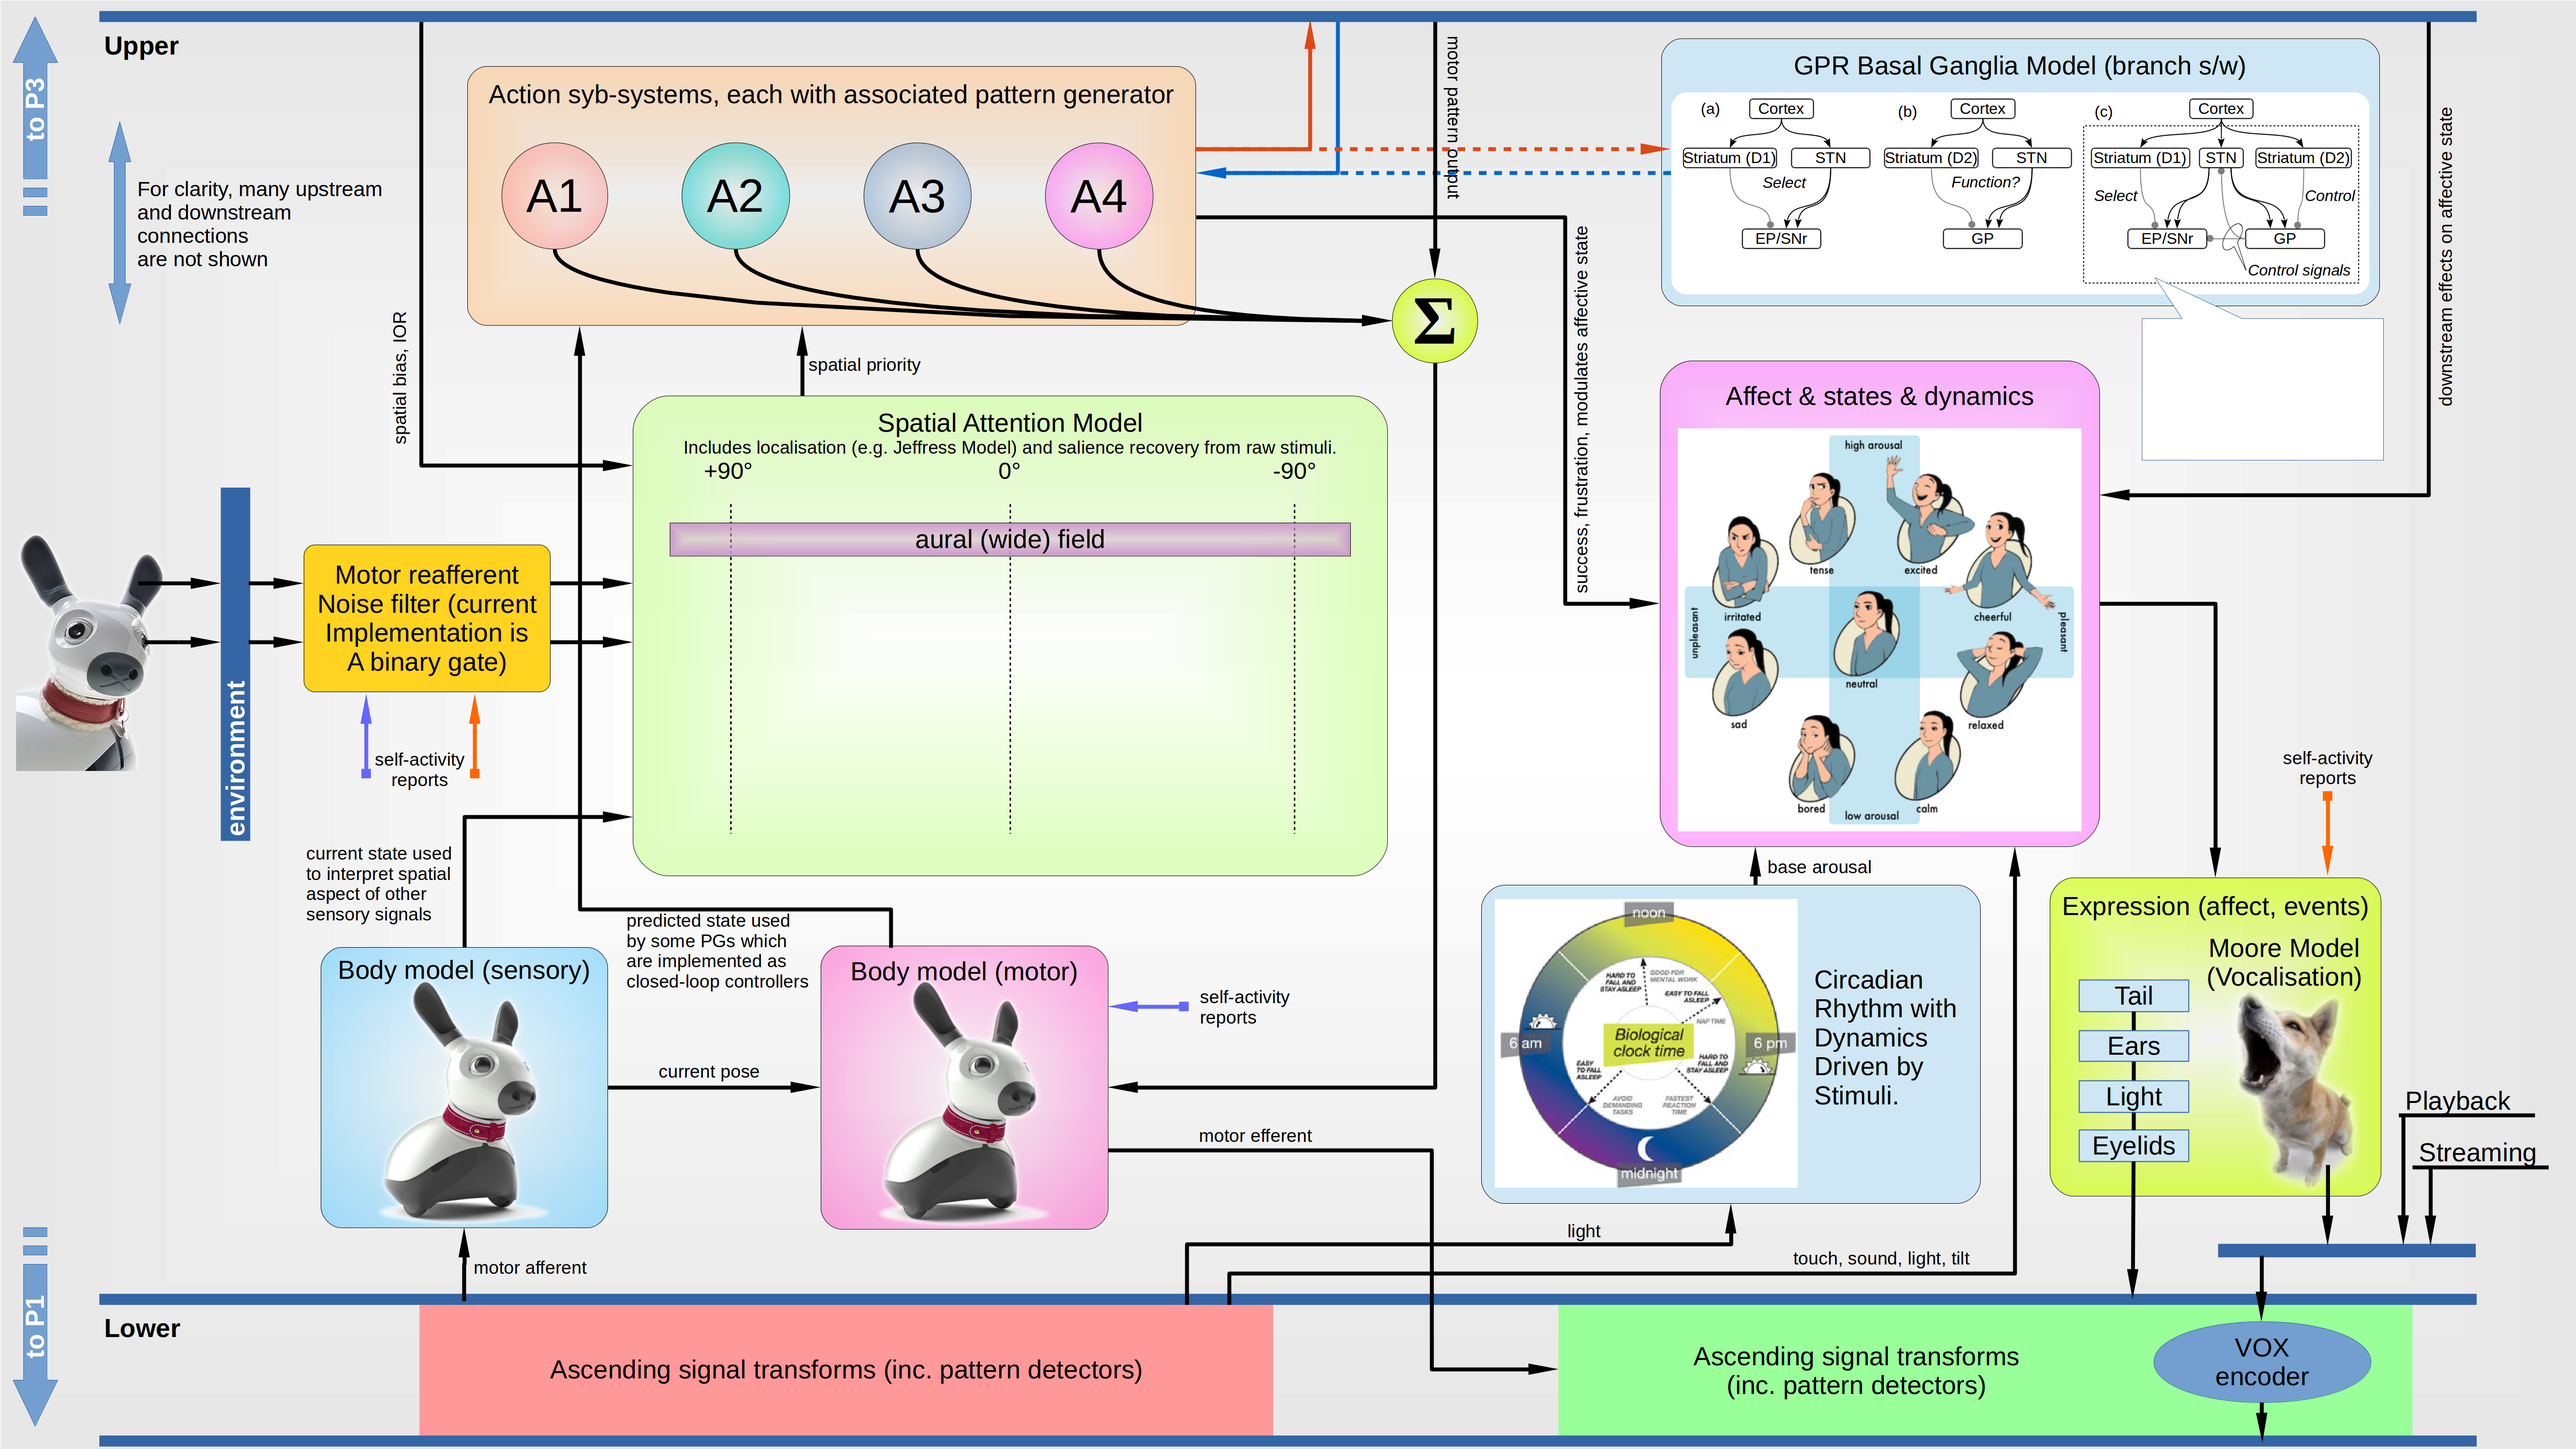
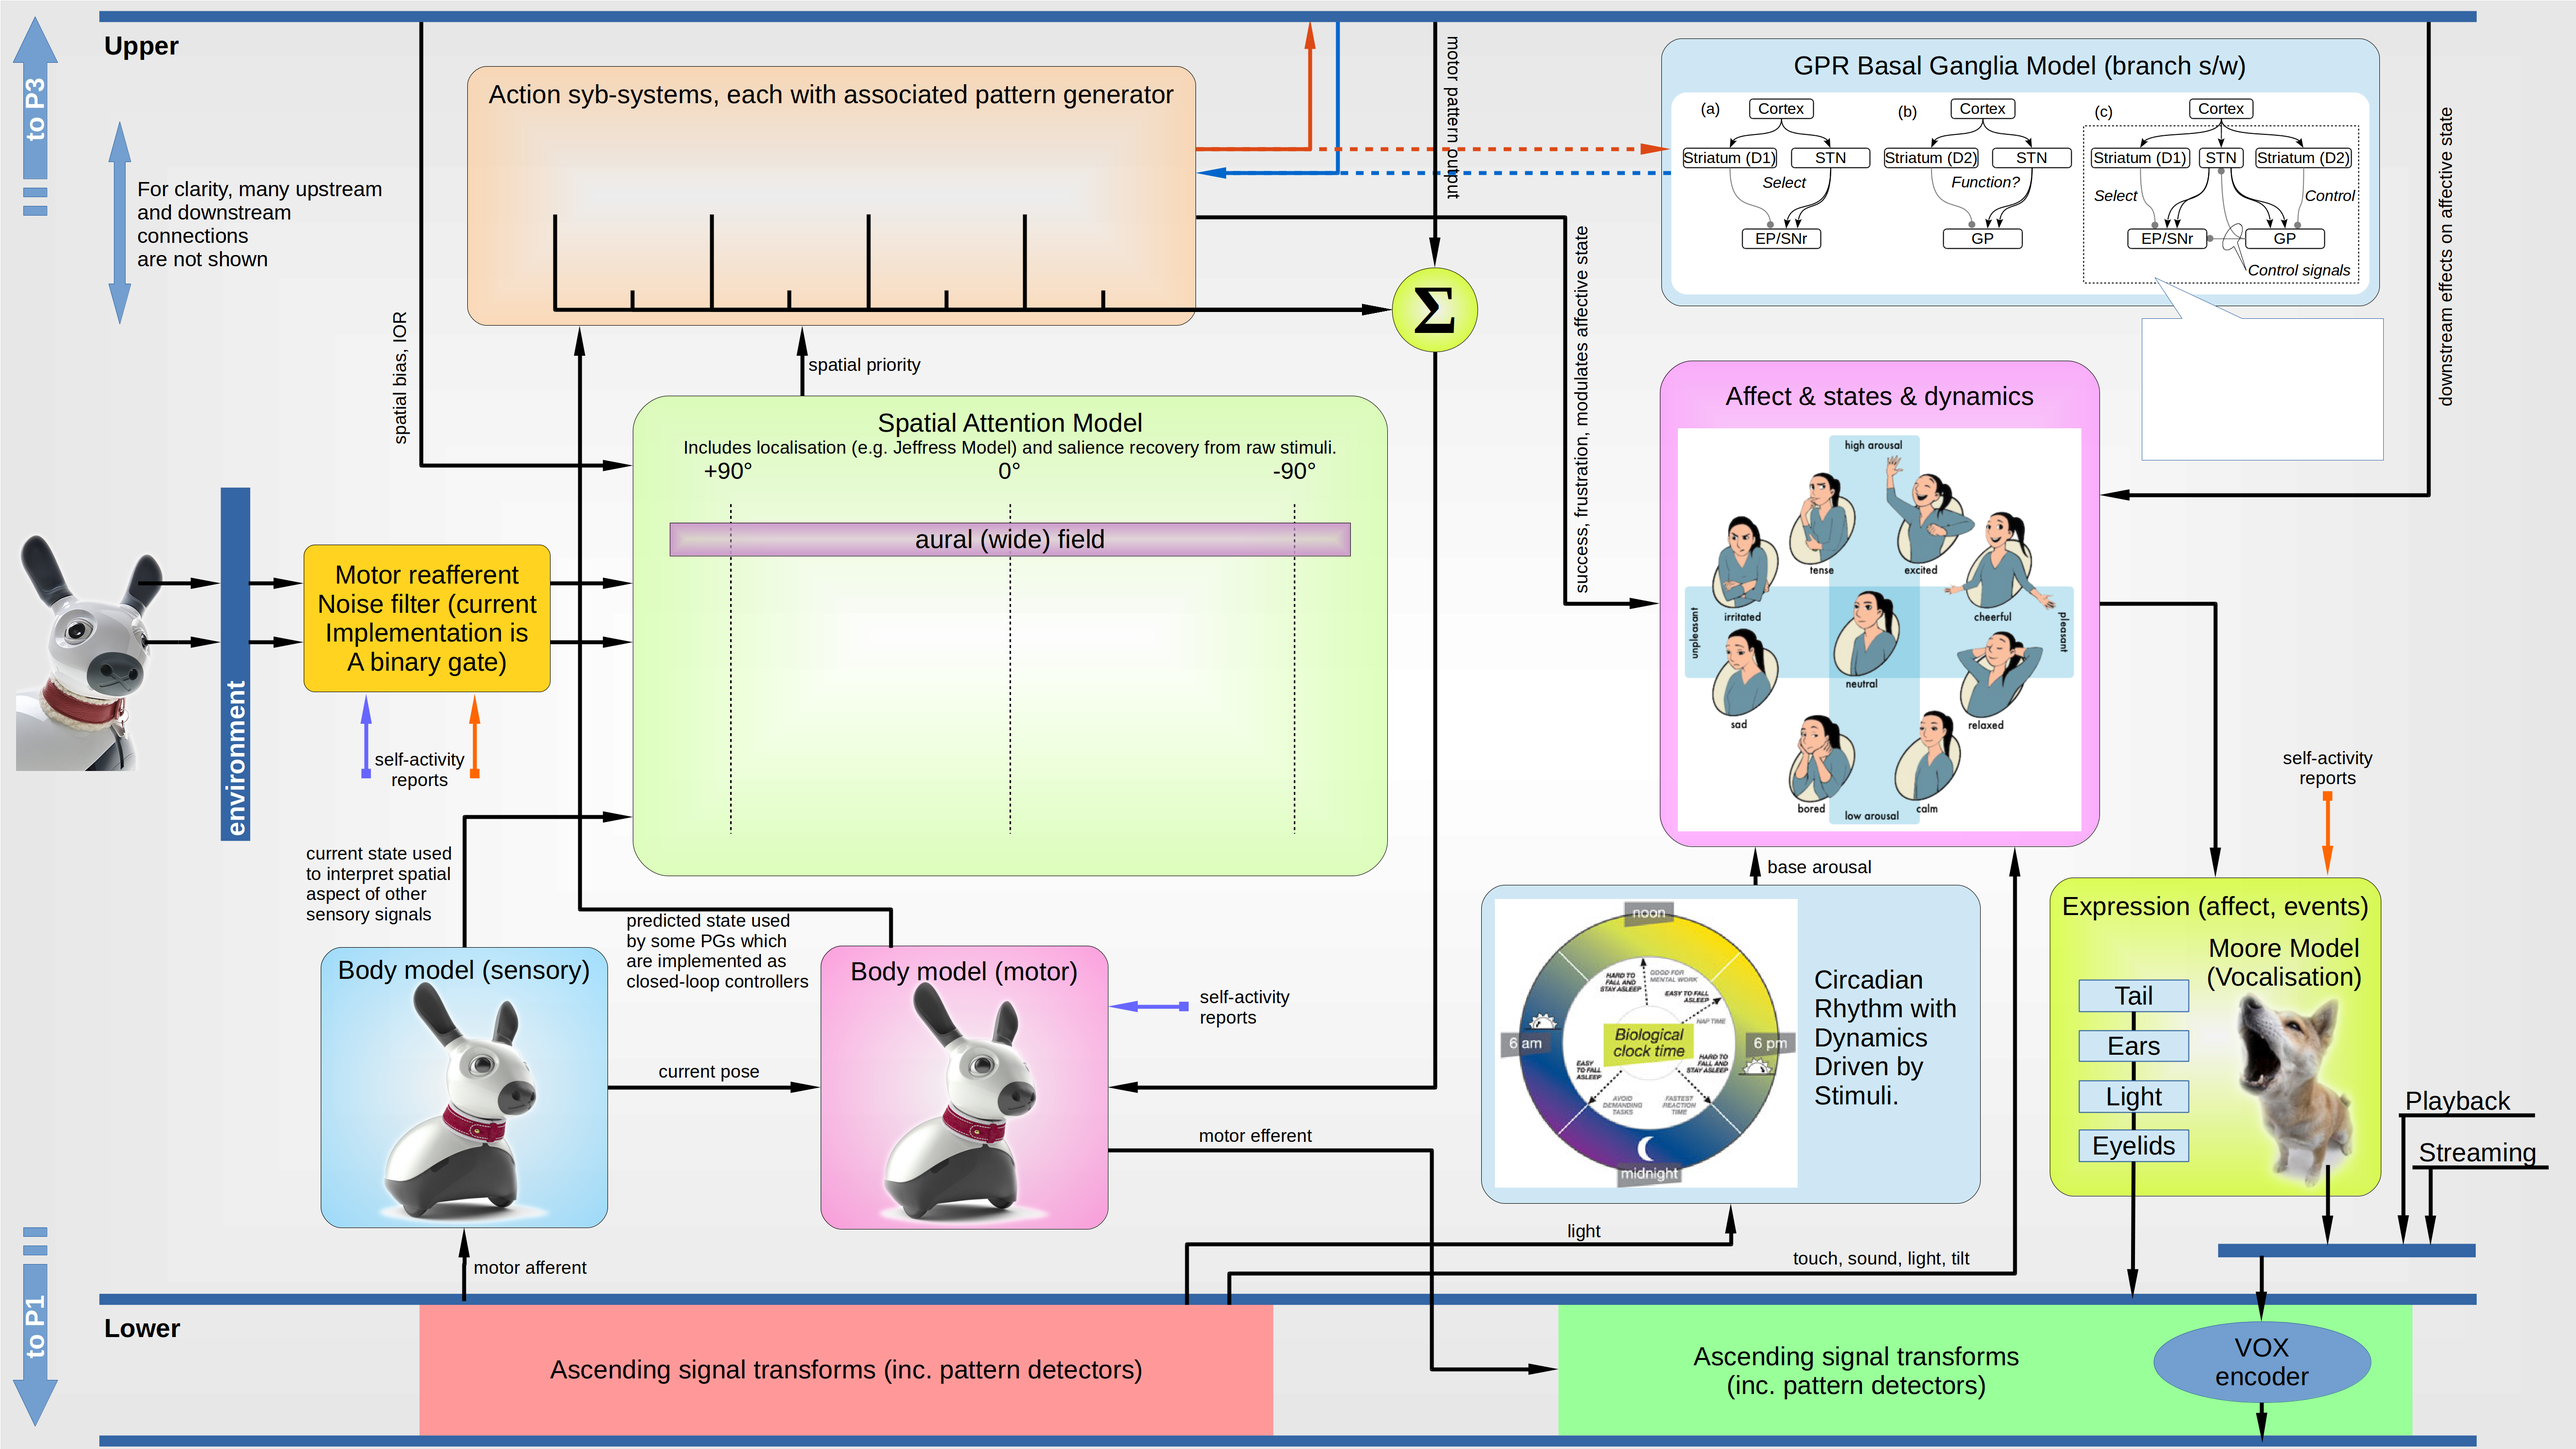
The priority and disinhibition added.

Changed region(s): [[0.1871, 0.0937, 0.5924, 0.2499]]

diff --git a/ui/ui_test.py b/ui/ui_test.py
@@ -73,9 +73,51 @@ class MiroGI():
         for spine in plt.gca().spines.values():  # Get rid of the frame
             spine.set_visible(False)
         self.ax_camera_r.patch.set_visible(False)  # Remove backgrounf
-        self.ax_camera_r.tick_params(top='off', bottom='off', left='off', right='off', labelleft='off',
-                                     labelbottom='off')
+        self.ax_camera_r.tick_params(top='off', bottom='off', left='off', right='off', labelleft='off', labelbottom='off')
         self.plt_camera_r_handle = self.ax_camera_r.imshow(self.img_camr, zorder=1, aspect='auto')
+
+        #  Initializing priorities.
+        self.ax_priorities = lib.add_subplot(self.ax_main, self.fig_main, [0.18, 0.78, 0.28, 0.18])
+        for spine in plt.gca().spines.values():  # Get rid of the frame
+            spine.set_visible(False)
+        self.ax_priorities.patch.set_visible(False)  # Remove backgrounf
+        self.ax_priorities.tick_params(top='off', bottom='off', left='off', right='off', labelleft='off', labelbottom='off')
+        self.ax_priorities.set_xlim([0, 30])
+        self.ax_priorities.set_ylim([0, 10])
+        self.ax_priorities.set_aspect('auto')
+
+        self.ax_priorities.scatter(3.8, 5.8, s=1600, c='w', linewidths=1, edgecolor='k', alpha=1, zorder=0)
+        self.plt_priority_1_handle = self.ax_priorities.scatter(3.8, 5.8, s=1600, c='r', linewidths=1, edgecolor='k', alpha=0.5, zorder=1)
+        self.ax_priorities.text(3.8, 5.8, "A1", size=20, ha="center", va="center", zorder=2)
+
+        self.ax_priorities.scatter(7.0, 3.0, s=1600, c='w', linewidths=1, edgecolor='k', alpha=1, zorder=0)
+        self.plt_priority_2_handle = self.ax_priorities.scatter(7.0, 3.0, s=1600, c='r', linewidths=1, edgecolor='k', alpha=0.5, zorder=1)
+        self.ax_priorities.text(7.0, 3.0, "A2", size=20, ha="center", va="center", zorder=2)
+
+        self.ax_priorities.scatter(10.3, 5.8, s=1600, c='w', linewidths=1, edgecolor='k', alpha=1, zorder=0)
+        self.plt_priority_3_handle = self.ax_priorities.scatter(10.3, 5.8, s=1600, c='r', linewidths=1, edgecolor='k', alpha=0.5, zorder=1)
+        self.ax_priorities.text(10.3, 5.8, "A3", size=20, ha="center", va="center", zorder=2)
+
+        self.ax_priorities.scatter(13.6, 3.0, s=1600, c='w', linewidths=1, edgecolor='k', alpha=1, zorder=0)
+        self.plt_priority_4_handle = self.ax_priorities.scatter(13.6, 3.0, s=1600, c='r', linewidths=1, edgecolor='k', alpha=0.5, zorder=1)
+        self.ax_priorities.text(13.6, 3.0, "A4", size=20, ha="center", va="center", zorder=2)
+
+        self.ax_priorities.scatter(16.8, 5.8, s=1600, c='w', linewidths=1, edgecolor='k', alpha=1, zorder=0)
+        self.plt_priority_5_handle = self.ax_priorities.scatter(16.8, 5.8, s=1600, c='r', linewidths=1, edgecolor='k', alpha=0.5, zorder=1)
+        self.ax_priorities.text(16.8, 5.8, "A5", size=20, ha="center", va="center", zorder=2)
+
+        self.ax_priorities.scatter(20.1, 3.0, s=1600, c='w', linewidths=1, edgecolor='k', alpha=1, zorder=0)
+        self.plt_priority_6_handle = self.ax_priorities.scatter(20.1, 3.0, s=1600, c='r', linewidths=1, edgecolor='k', alpha=0.5, zorder=1)
+        self.ax_priorities.text(20.1, 3.0, "A6", size=20, ha="center", va="center", zorder=2)
+
+        self.ax_priorities.scatter(23.3, 5.8, s=1600, c='w', linewidths=1, edgecolor='k', alpha=1, zorder=0)
+        self.plt_priority_7_handle = self.ax_priorities.scatter(23.3, 5.8, s=1600, c='r', linewidths=1, edgecolor='k', alpha=0.5, zorder=1)
+        self.ax_priorities.text(23.3, 5.8, "A7", size=20, ha="center", va="center", zorder=2)
+
+        self.ax_priorities.scatter(26.6, 3.0, s=1600, c='w', linewidths=1, edgecolor='k', alpha=1, zorder=0)
+        self.plt_priority_8_handle = self.ax_priorities.scatter(26.6, 3.0, s=1600, c='r', linewidths=1, edgecolor='k', alpha=0.5, zorder=1)
+        self.ax_priorities.text(26.6, 3.0, "A8", size=20, ha="center", va="center", zorder=2)
+
 
         # cursor = Cursor()
         cid = self.fig_main.canvas.mpl_connect('button_press_event', self.onclick)
@@ -97,7 +139,7 @@ class MiroGI():
     def plot_updatefig(self, i):
         if rospy.core.is_shutdown():
             return
-        while (self.miro.platform_sensors is None) or (self.miro.core_state is None):
+        while (self.miro.platform_sensors is None) or (self.miro.core_state is None) or (self.miro.image_caml is None) or (self.miro.image_camr is None):
             pass
         self.miro.update_data()
 
@@ -120,6 +162,25 @@ class MiroGI():
         self.plt_camera_r_handle.remove()
         self.plt_camera_r_handle = self.ax_camera_r.imshow(self.miro.image_camr, zorder=1, aspect='auto')
 
+
+        p = self.miro.priority
+        d = self.miro.disinhibition
+        self.plt_priority_1_handle.remove()
+        self.plt_priority_2_handle.remove()
+        self.plt_priority_3_handle.remove()
+        self.plt_priority_4_handle.remove()
+        self.plt_priority_5_handle.remove()
+        self.plt_priority_6_handle.remove()
+        self.plt_priority_7_handle.remove()
+        self.plt_priority_8_handle.remove()
+        self.plt_priority_1_handle = self.ax_priorities.scatter(3.80, 5.8, s=1600, c='r', linewidths=3*d[0], edgecolor='k', alpha=p[0], zorder=1)
+        self.plt_priority_2_handle = self.ax_priorities.scatter(7.00, 3.0, s=1600, c='r', linewidths=3*d[1], edgecolor='k', alpha=p[1], zorder=1)
+        self.plt_priority_3_handle = self.ax_priorities.scatter(10.3, 5.8, s=1600, c='r', linewidths=3*d[2], edgecolor='k', alpha=p[2], zorder=1)
+        self.plt_priority_4_handle = self.ax_priorities.scatter(13.6, 3.0, s=1600, c='r', linewidths=3*d[3], edgecolor='k', alpha=p[3], zorder=1)
+        self.plt_priority_5_handle = self.ax_priorities.scatter(16.8, 5.8, s=1600, c='r', linewidths=3*d[4], edgecolor='k', alpha=p[4], zorder=1)
+        self.plt_priority_6_handle = self.ax_priorities.scatter(20.1, 3.0, s=1600, c='r', linewidths=3*d[5], edgecolor='k', alpha=p[5], zorder=1)
+        self.plt_priority_7_handle = self.ax_priorities.scatter(23.3, 5.8, s=1600, c='r', linewidths=3*d[6], edgecolor='k', alpha=p[6], zorder=1)
+        self.plt_priority_8_handle = self.ax_priorities.scatter(26.6, 3.0, s=1600, c='r', linewidths=3*d[7], edgecolor='k', alpha=p[7], zorder=1)
 
     # Getting the cursor click position.
     def onclick(self, event):

diff --git a/ui/interface_lib.py b/ui/interface_lib.py
@@ -300,6 +300,9 @@ class miro_ros_client:
 
     def __init__(self):
 
+        self.image_caml = None
+        self.image_camr = None
+
         # report
         print("initialising...")
         print(sys.version)
@@ -434,3 +437,5 @@ class miro_ros_client:
         self.emotion = q.emotion
         self.mood = q.mood
         self.sleep = q.sleep
+        self.priority = q.priority
+        self.disinhibition = q.disinhibition
